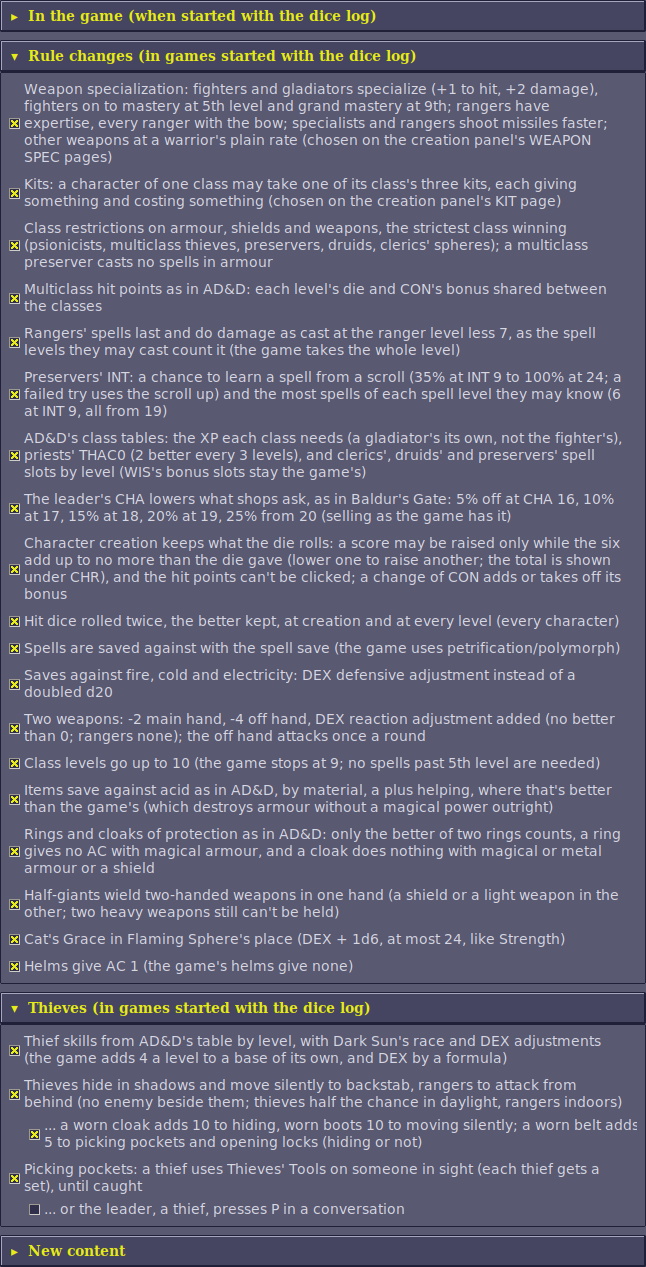
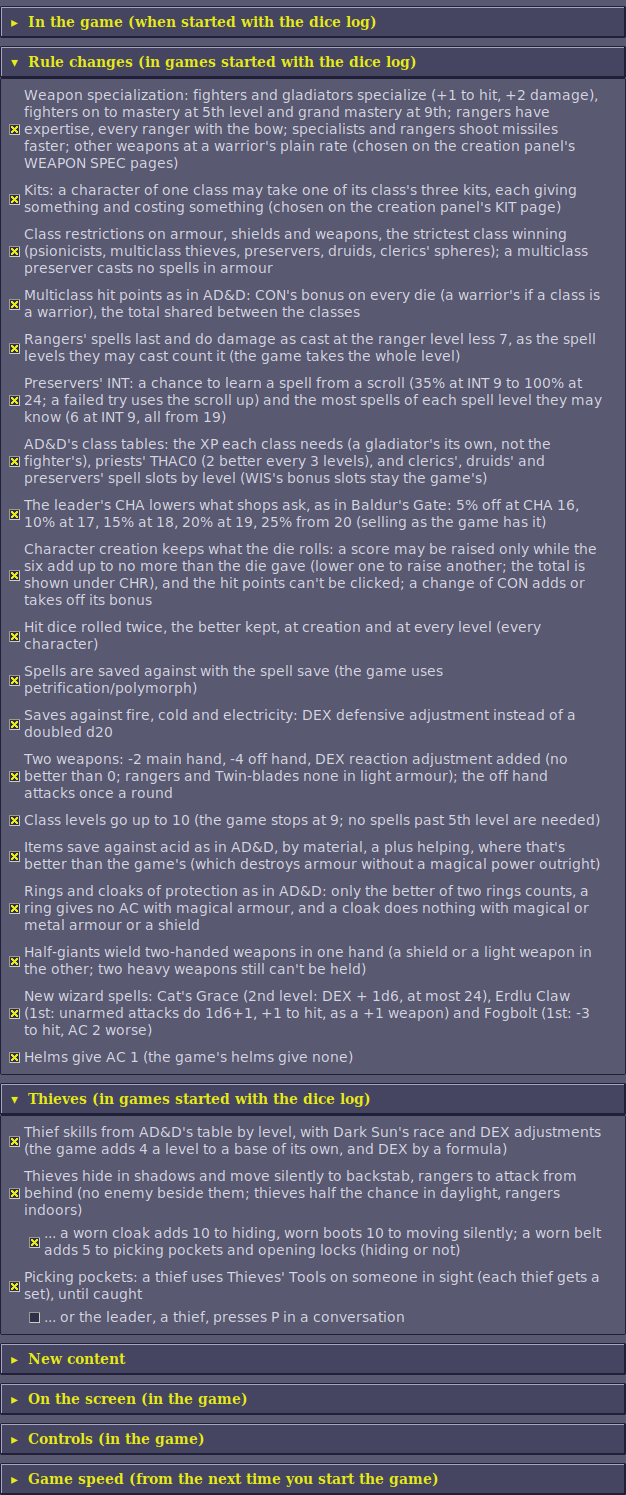
Screenshots: the three new spells, the Options tab, a spell's turn window
new-spells.png (the three descriptions), new-spells-effects.png (Cat's
Grace and Erdlu Claw on the Effects screen) and fogbolt.png (the grey
bolt) replace the two Cat's Grace pictures. options.png shows today's
switches at their defaults; turn-spell.png a Fogbolt turn under the
default rules, in place of a Cone of Cold save with the doubled d20.

Claude-Session: https://claude.ai/code/session_01BNiWkhyZSJPYsN3zRrweVp

diff --git a/darksun-companion/README.md b/darksun-companion/README.md
@@ -1161,7 +1161,7 @@ next ones:
 
 ![The game's window at the end of a turn, in detail](docs/turn-detail.png)
 
-![The game's window after a Defiler's Cone of Cold](docs/turn-spell.png)
+![The game's window after Daaki's Fogbolts: the dice for how long it lasts, and the Thri-kreen's save](docs/turn-spell.png)
 
 **In short** (or `--short-popups`) gives one line per target instead (and each
 spell's first line):
@@ -2276,9 +2276,11 @@ Claw with Shocking Grasp's snap, Fogbolt with Fog Cloud's sounds.
 With the **New wizard spells** box unticked (it's ticked by default) the
 spells are gone from the lists and the game is as it was.
 
-![Cat's Grace on the USE screen: its icon, and its description](docs/catsgrace.png)
+![The three descriptions on the USE screen (right-click a spell): Cat's Grace's paw, Erdlu Claw's scratches, Fogbolt's cloud](docs/new-spells.png)
 
-![The Effects screen: Cat's Grace's paw, and its name below](docs/cats-grace-effect.png)
+![The Effects screen with Cat's Grace and Erdlu Claw on Daaki, the claw's name below](docs/new-spells-effects.png)
+
+![Fogbolt's dark grey bolt on its way from the caster to a monster](docs/fogbolt.png)
 
 How it works: [DEVELOPMENT.md](DEVELOPMENT.md#new-wizard-spells).
 
